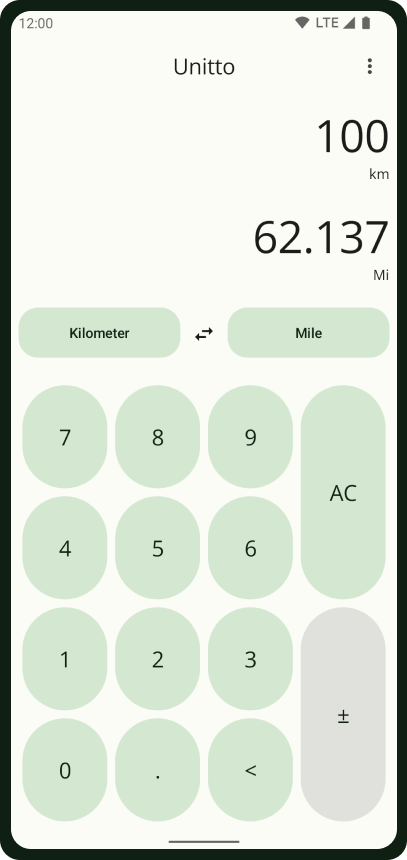
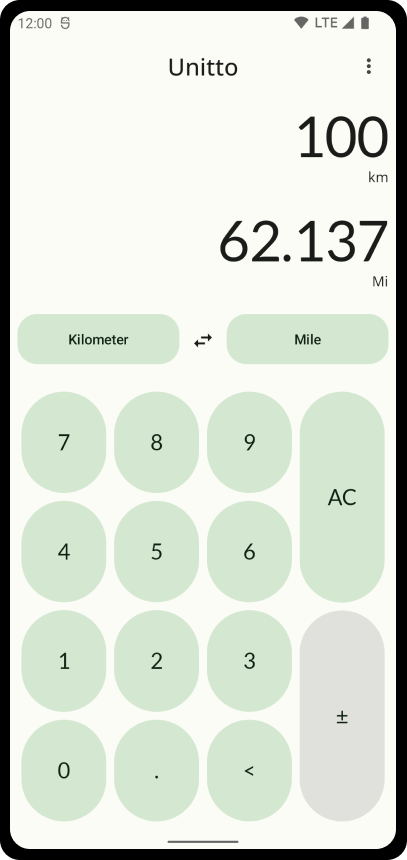
Mockup update
Changes in app's typography
Also changed download link to an actual one

diff --git a/unitto/index.html b/unitto/index.html
@@ -41,7 +41,7 @@
         <h1 class="display-1 text-white">This is Unitto</h1>
         <p class="fs-5 text-white">Yet another unit converter</p>
         <div class="py-3">
-          <a href="https://google.com/" class="p-3 " style="background-color: #DDE5D9; border-radius: 32px;">Download
+          <a href="https://play.google.com/store/apps/details?id=com.sadellie.unitto" class="p-3 " style="background-color: #DDE5D9; border-radius: 32px;">Download
             me</a>
         </div>
       </div>
